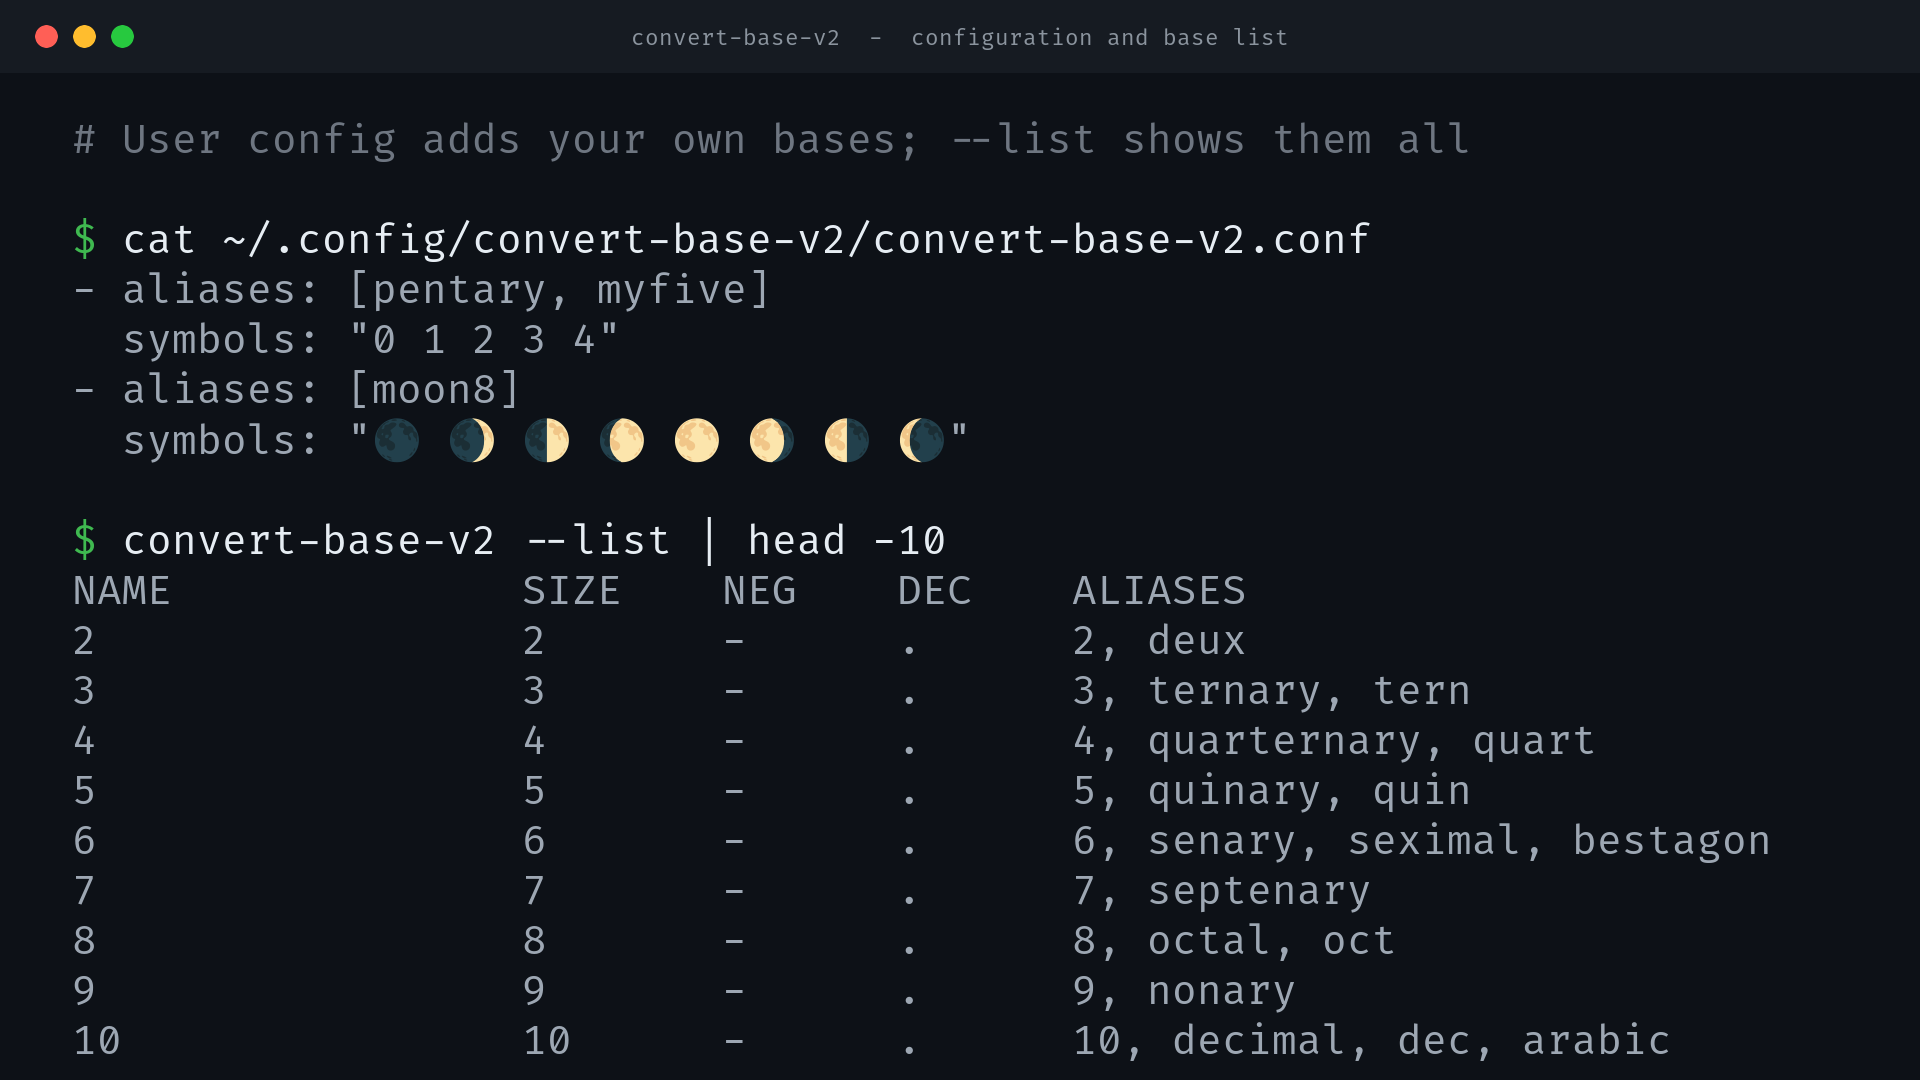
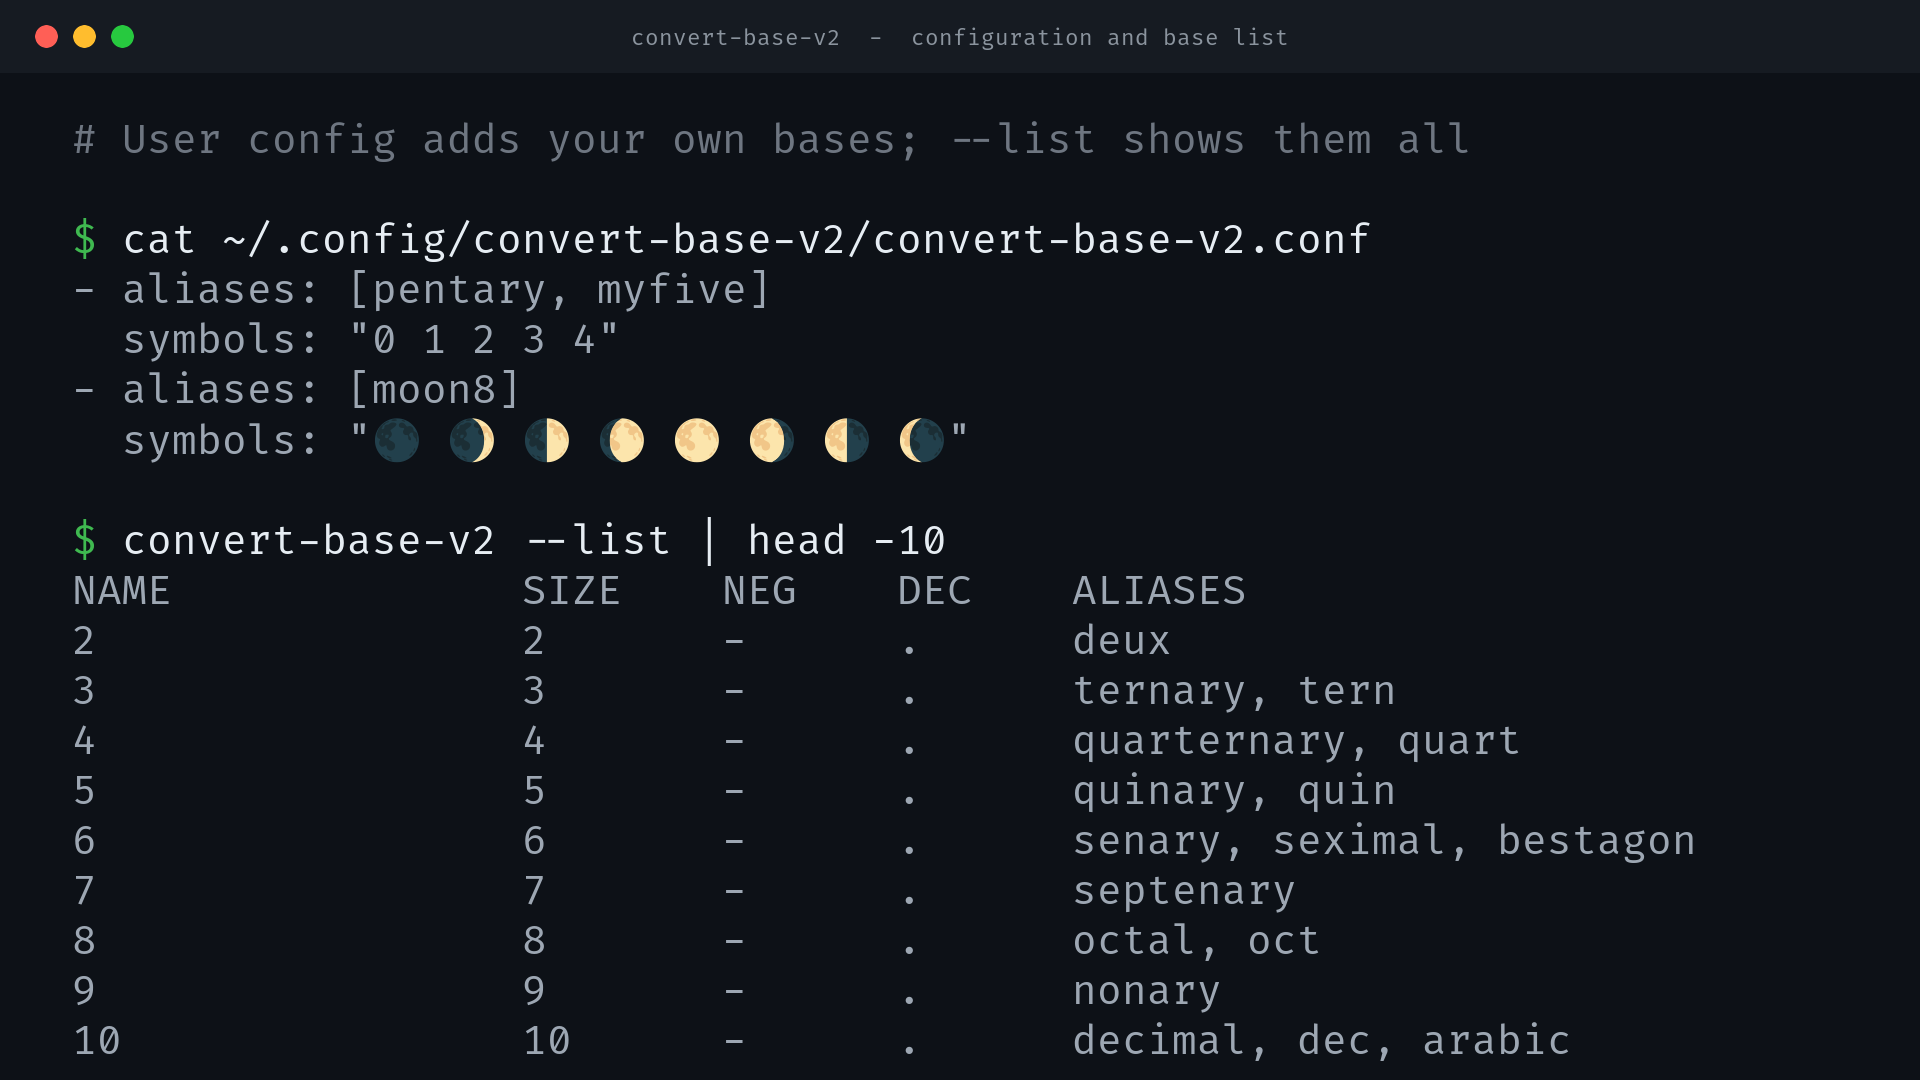
Updates

Changed region(s): [[0.5625, 0.5806, 0.9375, 0.9778]]

diff --git a/project/backlog.md b/project/backlog.md
@@ -43,25 +43,27 @@ In each section, items are listed approximately from newest to oldest.
 
 ### New features and enhancements
 
-- 🔘 Screenshots: Put blank lines in between test runs.
+- 🔘 Allow any base to be used in raw binary conversion, not just aligned on 2^N. (Research: Are there technical reason blocking? I can't think of any.)
+
+- 🔘 No screenshots. Don't need them in README.md for this project. Don't delete the functionality of making them, just comment it out in the CICD pipeline.
 
 - 🔘 CICD testing: Rigorous regression testing, performance testing, profiling (if `--quick` not passed), and include round-tripping all bases in raw mode with random length, random binary blobs, more than long enough in every base to trigger padding requirements.
-
-- 🔘 Create a new base that covers all possible printable keyboard characters in a plain text document. (Including programming code, regular human writing, email addresses, newline, return, tab, etc.) Without worrying about higher unicode alternatives (e.g. curly-quotes, mdash, etc.) - those would have to go through some separate conversion preprocessing in order to work with this base. I believe this should also covers Rich-Text format (which I believe has no special characters), MD, HTML, XML, JSON, embedded base64, etc., as-is.
-
-- 🔘 Create a base64 that's all emojis
-	- Only emojis noted/suggested by unicode to print graphically.
-	- Symbols in LANG=C order.
-	- Use generic yellow emojis for skintone-based ones, not skin-tone variants.
-	- Skip emojis that look too similar; use only the first one.
-
-- 🔘 Improve the performance of streaming binary-to-text conversion and vice-versa, to better approach existing linux utilities. Go should be able to get close.
 
 ### Done
 
 #### Done - Bugs
 
 #### Done - New features and enhancements
+
+- ✅ Create a new base that covers all possible printable keyboard characters in a plain text document. (Including programming code, regular human writing, email addresses, newline, return, tab, etc.) Without worrying about higher unicode alternatives (e.g. curly-quotes, mdash, etc.) - those would have to go through some separate conversion preprocessing in order to work with this base. I believe this should also covers Rich-Text format (which I believe has no special characters), MD, HTML, XML, JSON, embedded base64, etc., as-is.
+
+- ✅ Create a base64 that's all emojis
+	- Only emojis noted/suggested by unicode to print graphically.
+	- Symbols in LANG=C order.
+	- Use generic yellow emojis for skintone-based ones, not skin-tone variants.
+	- Skip emojis that look too similar; use only the first one.
+
+- ✅ Improve the performance of streaming binary-to-text conversion and vice-versa, to better approach existing linux utilities. Go should be able to get close.
 
 - ✅ An optional padding scheme for custom bases (not necessarily `===`). The published big bases and the RFC base32/base64 bases already pad correctly; this is about letting user-defined bases opt into padding too.
 